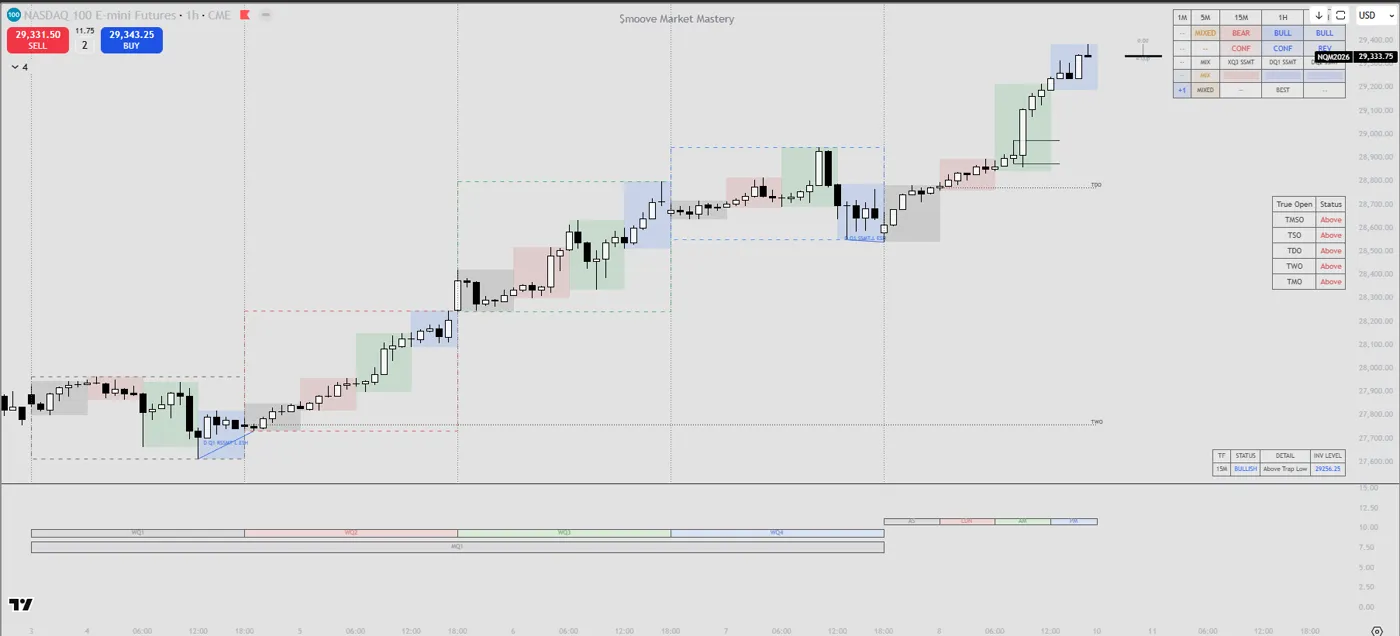
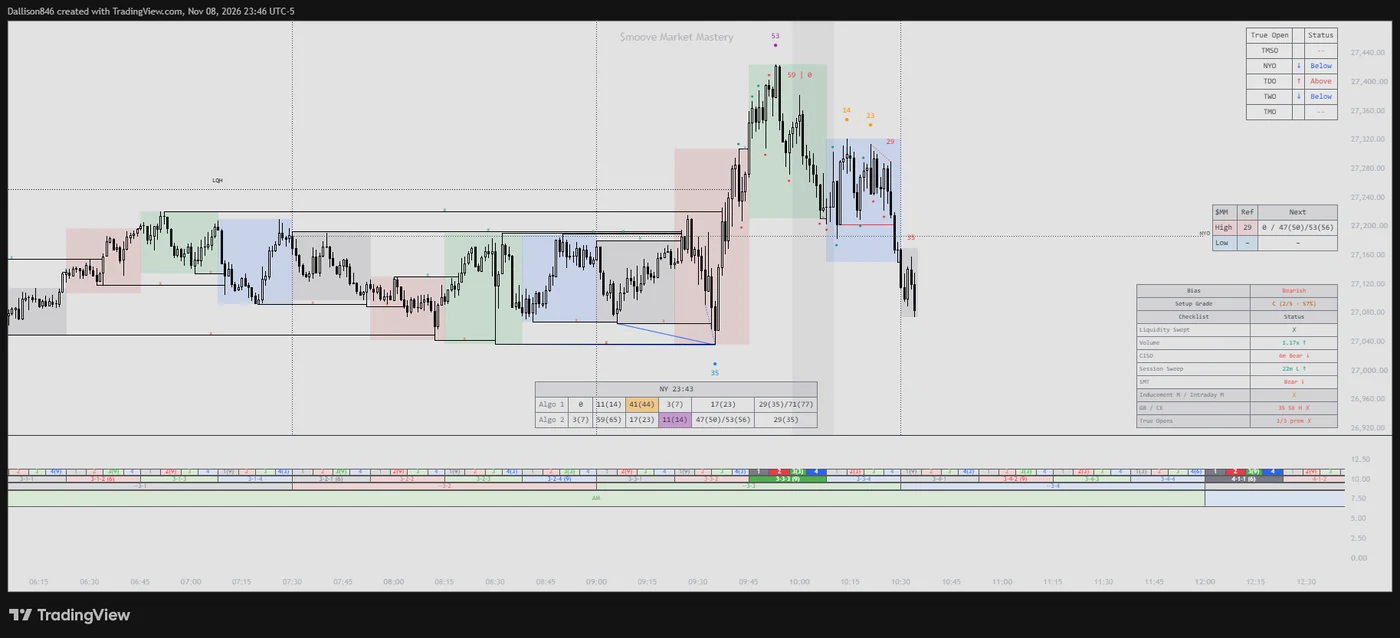
content: new desktop indicators chart in the showcase (#21)
Owner's new TradingView screenshot replaces the laptop image on the indicators slide (1400x638 WebP), with the height attribute updated to match.

Claude's self-review waived by the owner.

Approved-by: owner

Changed region(s): [[0.0, 0.0, 1.0, 1.0], [0.645, 0.4182, 0.6757, 0.478], [0.1536, 0.2689, 0.1843, 0.2987]]

diff --git a/index.html b/index.html
@@ -659,7 +659,7 @@ main:focus{outline:none}
                 <div class="laptop-wrap">
                   <div class="laptop-screen">
                     <div class="laptop-screen-inner">
-                      <img src="images/slide-indicators-desktop.webp" width="1400" height="636" alt="$moove indicators on TradingView" class="laptop-img" loading="lazy"/>
+                      <img src="images/slide-indicators-desktop.webp" width="1400" height="638" alt="$moove indicators on TradingView" class="laptop-img" loading="lazy"/>
                     </div>
                   </div>
                   <div class="laptop-base"></div>
